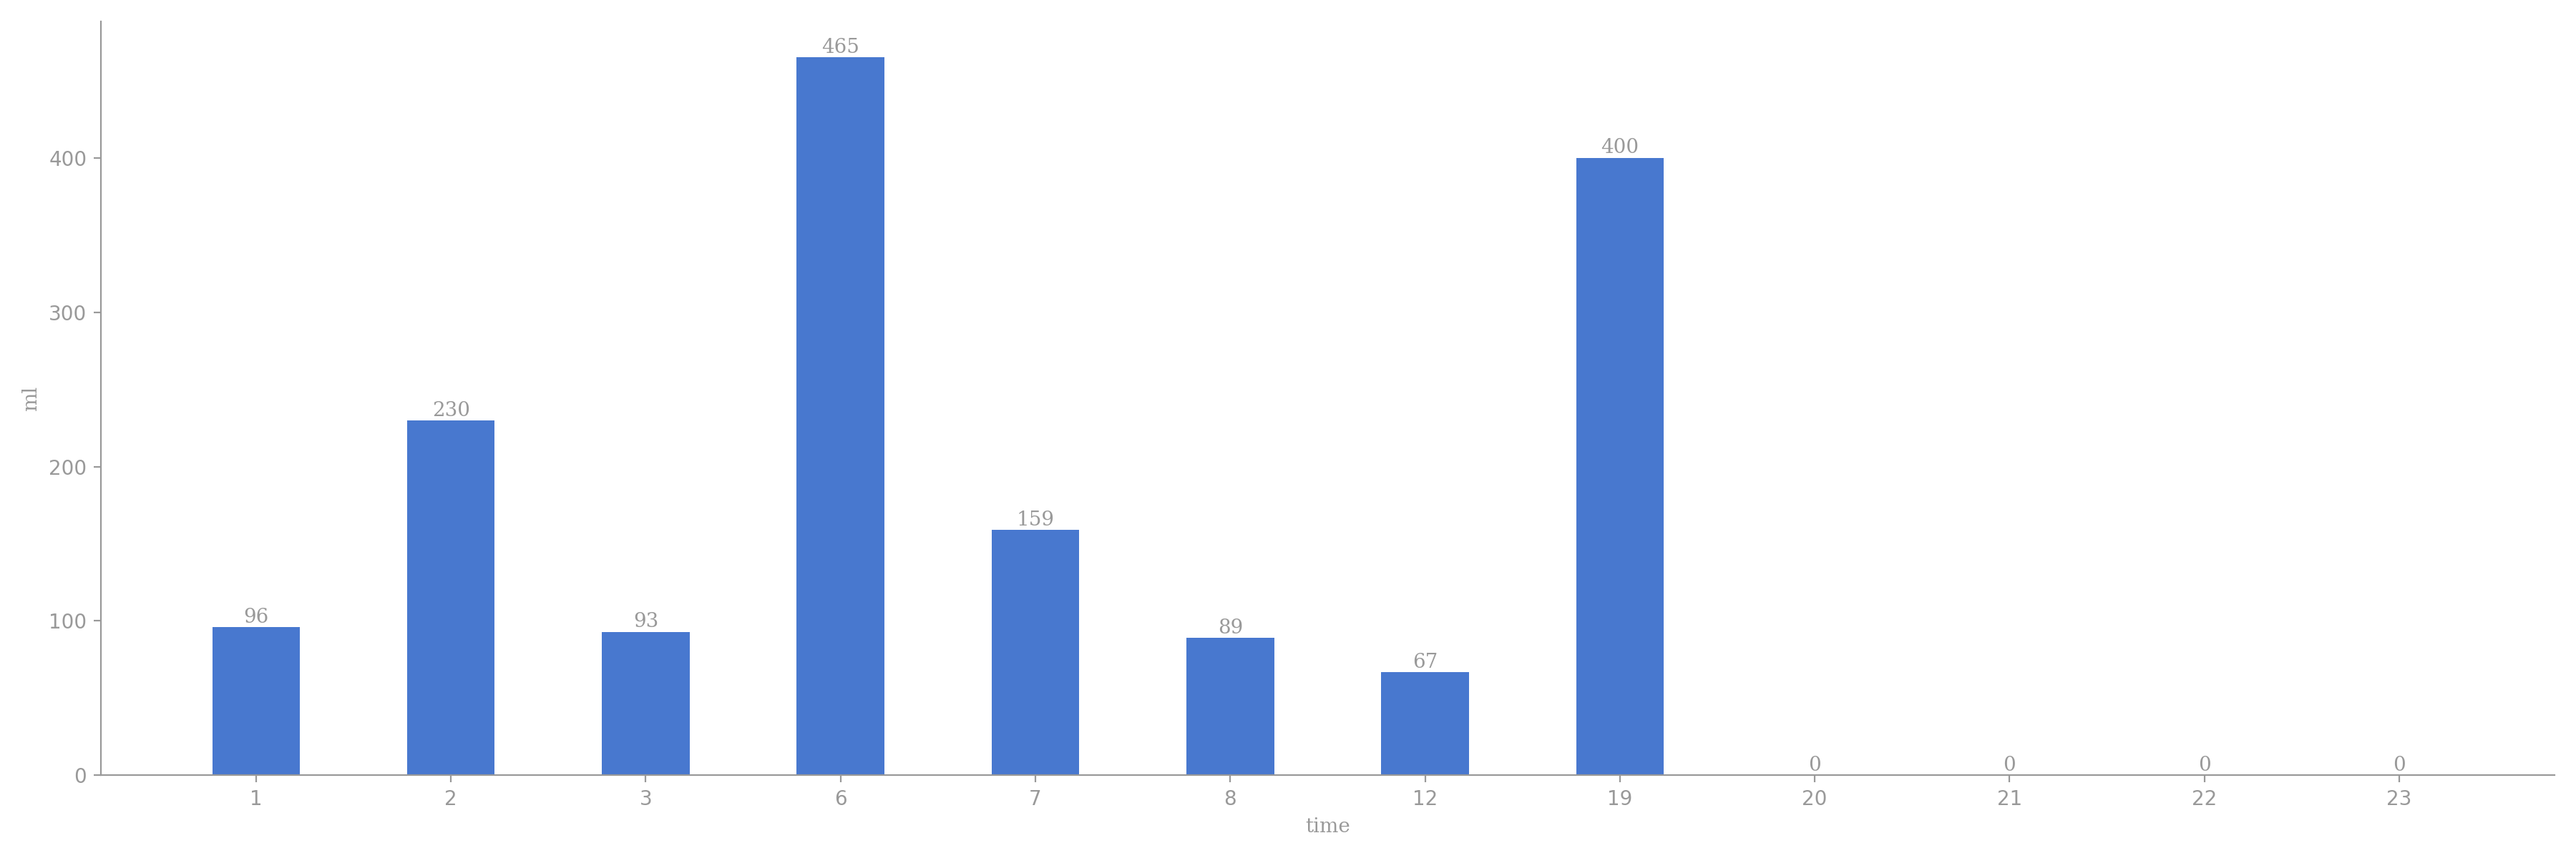
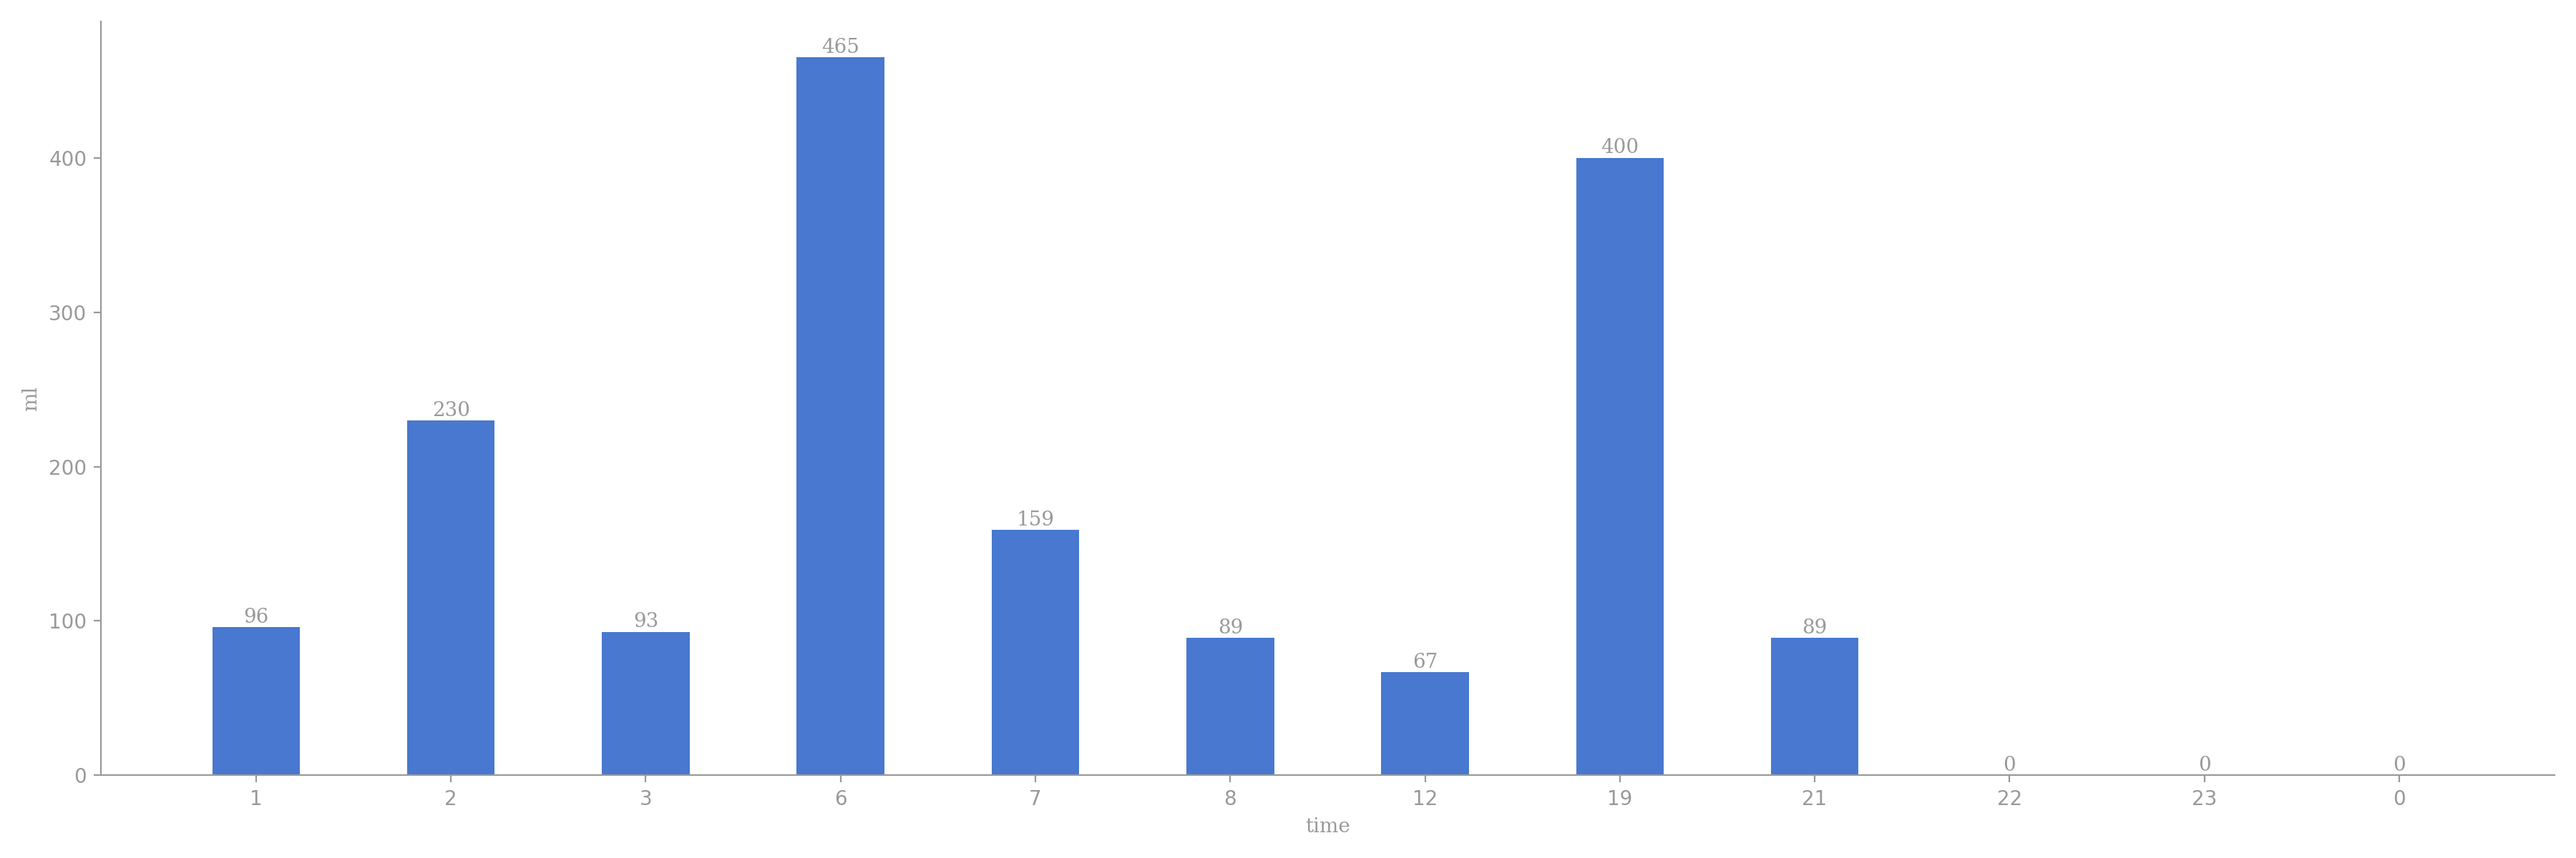
generated readme

Changed region(s): [[0.6844, 0.74, 0.7467, 0.925]]

diff --git a/README.md b/README.md
@@ -5,12 +5,12 @@
 
 | 今日总饮水量 | 每小时平均饮水量 |
 | :----: | :----: |
-| 1599 | 199 |
+| 1688 | 187 |
 </div>
 
-| 日期 | 01:00:30 | 02:19:44 | 02:41:55 | 03:31:42 | 06:01:05 | 06:21:36 | 06:47:58 | 07:33:35 | 07:53:12 | 08:27:27 | 12:55:57 | 19:06:32 |
-| :----: | :----: | :----: | :----: | :----: | :----: | :----: | :----: | :----: | :----: | :----: | :----: | :----: |
-| 2024-11-09 | 96 | 99 | 131 | 93 | 78 | 87 | 300 | 87 | 72 | 89 | 67 | 400 |
+| 日期 | 01:00:30 | 02:19:44 | 02:41:55 | 03:31:42 | 06:01:05 | 06:21:36 | 06:47:58 | 07:33:35 | 07:53:12 | 08:27:27 | 12:55:57 | 19:06:32 | 21:00:15 |
+| :----: | :----: | :----: | :----: | :----: | :----: | :----: | :----: | :----: | :----: | :----: | :----: | :----: | :----: |
+| 2024-11-09 | 96 | 99 | 131 | 93 | 78 | 87 | 300 | 87 | 72 | 89 | 67 | 400 | 89 |
 
 # 近30日饮水数据
 
